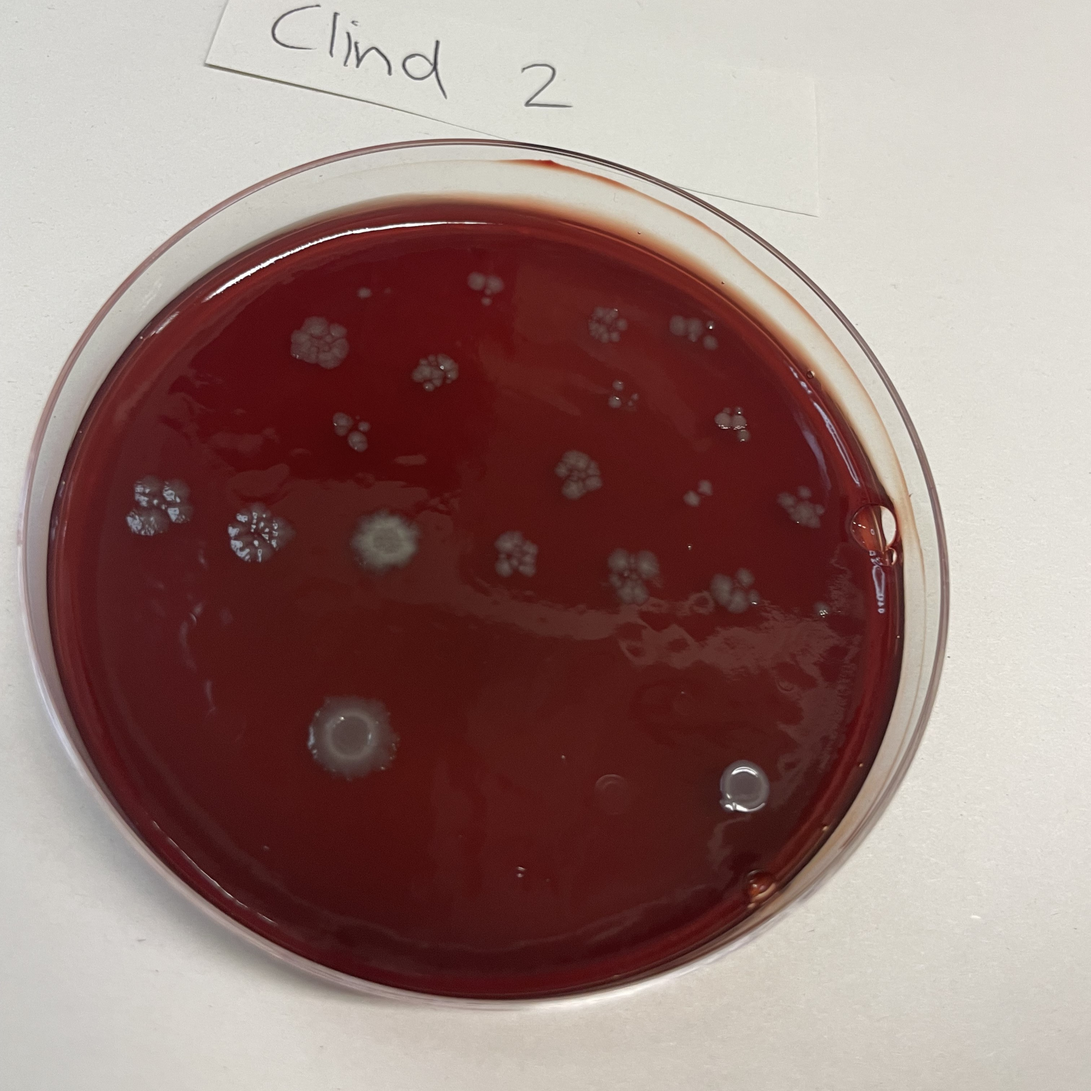
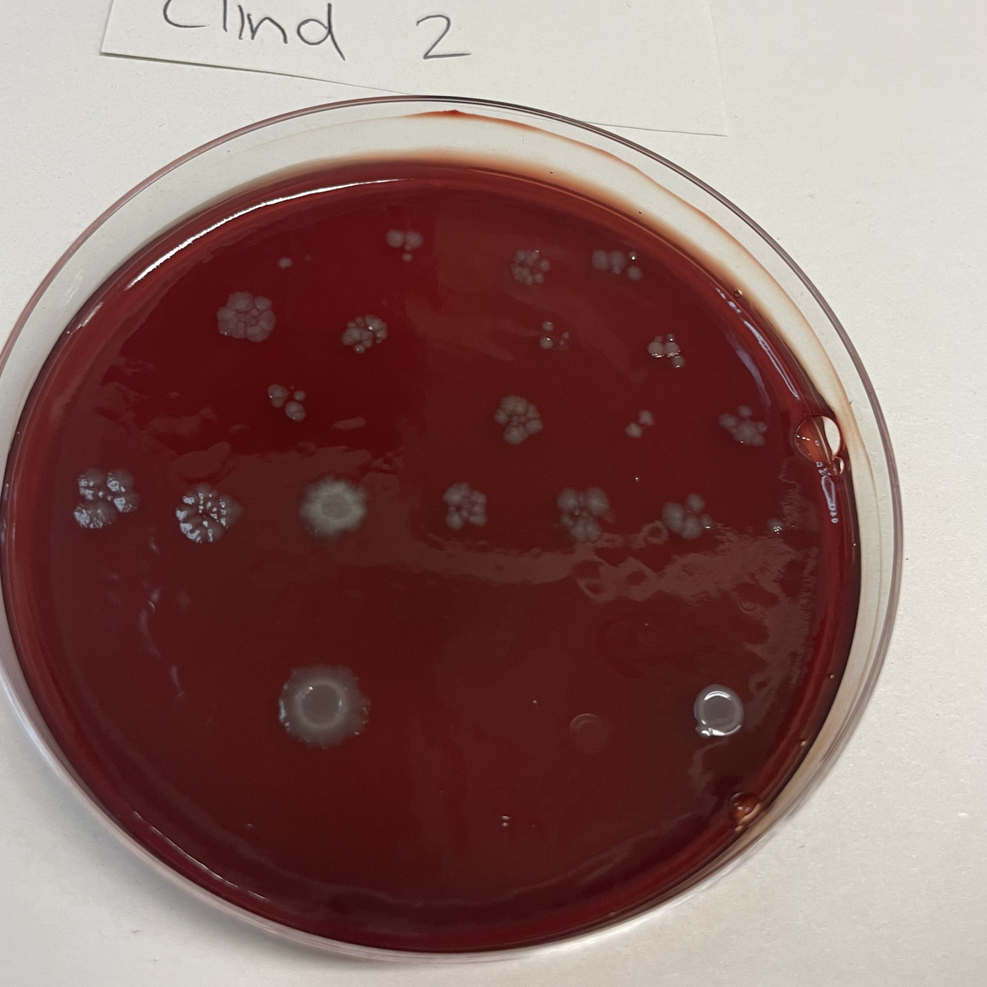
Blob Detection and Plate Mapping functionality added
Images now reduced to 409-484 KB range and cropped to a square around the circle. detectBlobs script creates enlarged squares around each strain and then segments each strain into a new image. Need to implement this in the preprocessImages script.

diff --git a/DataCleaning/preprocessImage/detectBlobs.py b/DataCleaning/preprocessImage/detectBlobs.py
@@ -1,34 +1,50 @@
 import cv2
 import numpy as np
 
+# Read the image
+image_path = r"C:\TeamProject\Automated-Plate-Analysis\DataCleaning\CleanImages\Clindamycin\Clind0.jpg"
+img = cv2.imread(image_path, cv2.IMREAD_GRAYSCALE)
 
-def detect_and_draw_circles(image_path):
-    # Read the image
-    img = cv2.imread(image_path, cv2.IMREAD_GRAYSCALE)
+# Define the kernel size for Gaussian blur (should be odd)
+kernel_size = (25, 25)  # Adjust kernel size as needed
 
-    # Apply adaptive histogram equalization
-    clahe = cv2.createCLAHE(clipLimit=1.5, tileGridSize=(9, 9))
-    adaptive_img = clahe.apply(img)
+# Apply Gaussian blur - needed to crop to exact petri dish size
+blurred_image = cv2.GaussianBlur(img, kernel_size, 0)
 
-    # Apply Hough Circle Transform to detect circles - GOLDEN PARAMS !! DETECTS ALL STRAINS !!
-    circles = cv2.HoughCircles(adaptive_img, cv2.HOUGH_GRADIENT, dp=1, minDist=168,
-                               param1=20, param2=15, minRadius=45, maxRadius=55)
+# Apply adaptive histogram equalization
+clahe = cv2.createCLAHE(clipLimit=1.75, tileGridSize=(10, 10))
+adaptive_img = clahe.apply(blurred_image)
 
-    # Ensure circles were detected
-    if circles is not None:
-        circles = np.uint16(np.around(circles))
+# Apply Hough Circle Transform to detect circles - GOLDEN PARAMS !! DETECTS ALL STRAINS !!
+circles = cv2.HoughCircles(adaptive_img, cv2.HOUGH_GRADIENT, dp=1, minDist=166,
+                           param1=20, param2=16, minRadius=43, maxRadius=55)
 
-        # Draw circles on the original image
-        for circle in circles[0, :]:
-            center = (circle[0], circle[1])
-            radius = circle[2]
-            cv2.circle(img, center, radius, (255, 0, 0), 3)
+# Ensure circles were detected
+if circles is not None:
+    circles = np.uint16(np.around(circles))
 
-    else:
-        print("No circles detected.")
+    # List to store the coordinates of the rectangles
+    rectangles = []
 
-    # Save the image with circles drawn
-    output_path = image_path.replace('.jpg', '_circles.jpg')
-    cv2.imwrite(output_path, img)
+    # Draw slightly bigger red boxes around the circles
+    for circle in circles[0, :]:
+        center = (circle[0], circle[1])
+        radius = circle[2]
 
-    return img
+        # Calculate coordinates for the rectangle (add/subtract 5 pixels to each side)
+        x, y, w, h = center[0] - radius - 20, center[1] - radius - 20, 2 * radius + 30, 2 * radius + 40
+
+        # Append rectangle coordinates to the list
+        rectangles.append((x, y, w, h))
+
+    # Sort the rectangles based on x-coordinate first and then by y-coordinate
+    rectangles.sort(key=lambda rect: (rect[1], rect[0]))
+
+    # Save each rectangle as a separate image
+    for i, rect in enumerate(rectangles):
+        x, y, w, h = rect
+        roi = img[y:y+h, x:x+w]
+        cv2.imwrite(f"Rectangle_{i+1}.jpg", roi)
+
+else:
+    print("No circles detected.")

diff --git a/DataCleaning/preprocessImage/preprocessImage.py b/DataCleaning/preprocessImage/preprocessImage.py
@@ -2,13 +2,15 @@ import os
 import cv2
 from cropImage import crop_image
 from maskImage import mask_circle
-from detectBlobs import detect_and_draw_circles
 
 # Path to the folder containing the input images
 input_folder = r"C:\TeamProject\Automated-Plate-Analysis\DataCleaning\RawImages\Clindamycin"
 
-# Path to the folder where the standardized images will be saved
+# Path to the folder where the standardized and compressed images will be saved
 output_folder = r"C:\TeamProject\Automated-Plate-Analysis\DataCleaning\CleanImages\Clindamycin"
+
+# Target size in bytes
+target_size_bytes = 205 * 1024
 
 # Iterate through all files in the input folder
 for filename in os.listdir(input_folder):
@@ -16,6 +18,7 @@ for filename in os.listdir(input_folder):
     img_path = os.path.join(input_folder, filename)
     img = cv2.imread(img_path)
 
+    # Crop image
     ROI = crop_image(img)
 
     # Define the center and radius of the circle
@@ -25,11 +28,21 @@ for filename in os.listdir(input_folder):
     # Crop the image as a circle
     cropped_circle = mask_circle(ROI, center, radius)
 
-    # Save the standardised image to the output folder
+    # Compress image to target size
+    quality = 90  # Initial quality
+    encoded_img = cv2.imencode('.jpg', cropped_circle, [cv2.IMWRITE_JPEG_QUALITY, quality])[1]
+    current_size_bytes = len(encoded_img.tobytes())
+
+    while current_size_bytes > target_size_bytes and quality >= 0:
+        quality -= 5
+        encoded_img = cv2.imencode('.jpg', cropped_circle, [cv2.IMWRITE_JPEG_QUALITY, quality])[1]
+        current_size_bytes = len(encoded_img.tobytes())
+
+    # Decode the compressed image
+    compressed_img = cv2.imdecode(encoded_img, cv2.IMREAD_COLOR)
+
+    # Save the compressed image
     output_path = os.path.join(output_folder, filename)
-    cv2.imwrite(output_path, cropped_circle)
+    cv2.imwrite(output_path, compressed_img)
 
-    # Read in standardised, cropped, masked image into detectBlobs function
-    detect_blobs = detect_and_draw_circles(output_path)
-
-print("Standardization complete. Standardized images saved to", output_folder)
+print("Compression complete. Compressed images saved to", output_folder)

diff --git a/DataCleaning/preprocessImage/cropImage.py b/DataCleaning/preprocessImage/cropImage.py
@@ -1,16 +1,12 @@
 import cv2
 import numpy as np
 
-# converts image to greyscale, converts to binary, applies edge detection and finds coordinates to crop image
-# NB manual cropping most likely required for a couple of images
-
-
 def crop_image(img):
     # Convert to grayscale
     grey = cv2.cvtColor(img, cv2.COLOR_RGB2GRAY)
 
     # Define the kernel size for Gaussian blur (should be odd)
-    kernel_size = (25, 25)  # Adjust kernel size as needed
+    kernel_size = (201, 201)  # Adjust kernel size as needed
 
     # Apply Gaussian blur - needed to crop to exact petri dish size
     blurred_image = cv2.GaussianBlur(grey, kernel_size, 0)
@@ -19,14 +15,23 @@ def crop_image(img):
     ret, thresh = cv2.threshold(blurred_image, 55, 255, 0)
 
     # Apply Canny edge detection
-    edges = cv2.Canny(thresh, threshold1=150, threshold2=200)
+    edges = cv2.Canny(thresh, threshold1=200, threshold2=210)
 
     # Find the non-zero min-max coordinates of canny
     pts = np.argwhere(edges > 0)
     y1, x1 = pts.min(axis=0)
     y2, x2 = pts.max(axis=0)
 
-    # Crop ROI for original image
-    cropped = blurred_image[y1:y2, x1:x2]
+    # Ensure the width and height of the cropped region are equal
+    width = max(x2 - x1, y2 - y1)
+    center_x = (x1 + x2) // 2
+    center_y = (y1 + y2) // 2
+    x1 = center_x - width // 2
+    x2 = center_x + width // 2
+    y1 = center_y - width // 2
+    y2 = center_y + width // 2
+
+    # Crop ROI for original image - not blurred
+    cropped = grey[y1:y2, x1:x2]
 
     return cropped

diff --git a/DataCleaning/preprocessImage/resizeImage.py b/DataCleaning/preprocessImage/resizeImage.py
@@ -1,0 +1,28 @@
+import cv2
+import numpy as np
+# Define the function to compress images
+def resize_image_to_target_size(img, target_size_kb):
+    # Calculate the target size in bytes
+    target_size_bytes = target_size_kb * 1024
+
+    # Initialize compression quality
+    quality = 90  # Initial guess
+
+    while True:
+        # Encode the image to JPEG with the current quality
+        _, encoded_img = cv2.imencode('.jpg', img, [cv2.IMWRITE_JPEG_QUALITY, quality])
+
+        # Check the size of the encoded image
+        current_size_bytes = len(encoded_img.tobytes())
+
+        # If the size is within the tolerance, break
+        if abs(current_size_bytes - target_size_bytes) < 1000:
+            break
+
+        # Adjust the quality based on the difference between current and target size
+        quality -= 5 if current_size_bytes > target_size_bytes else -5
+
+    # Decode the compressed image
+    compressed_img = cv2.imdecode(encoded_img, cv2.IMREAD_COLOR)
+
+    return compressed_img
